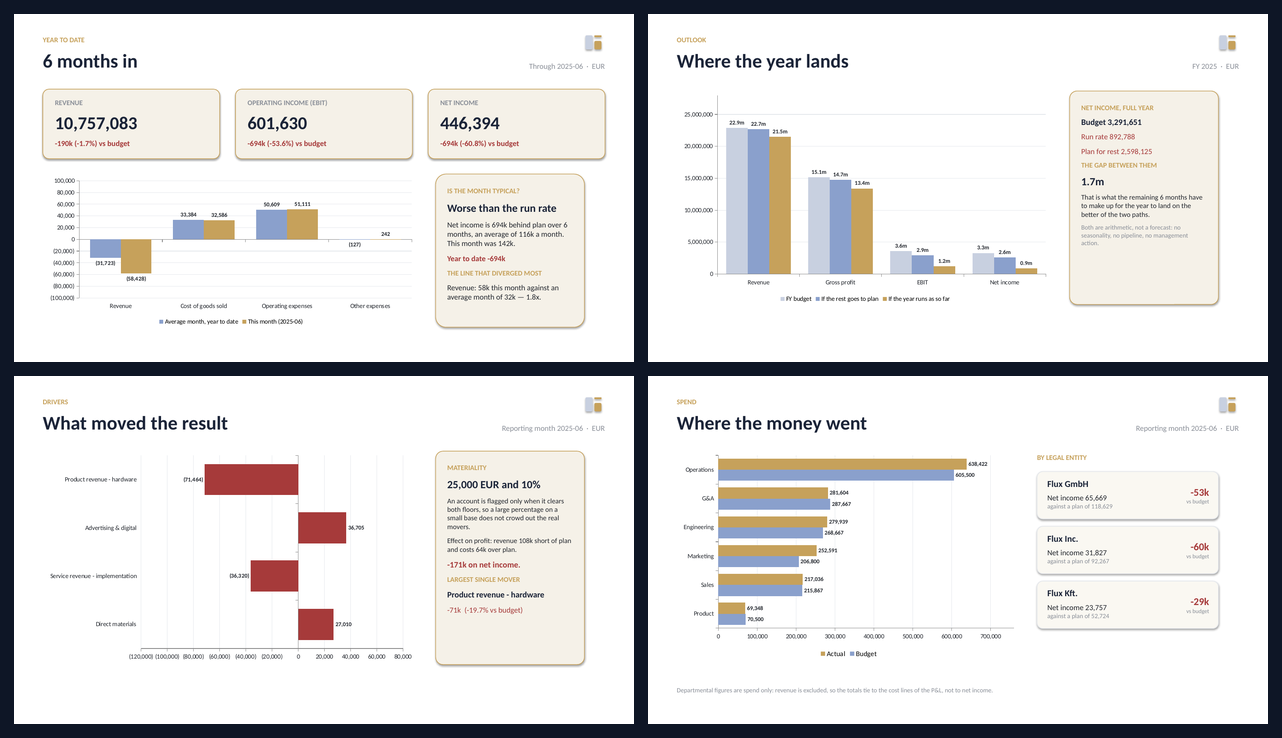
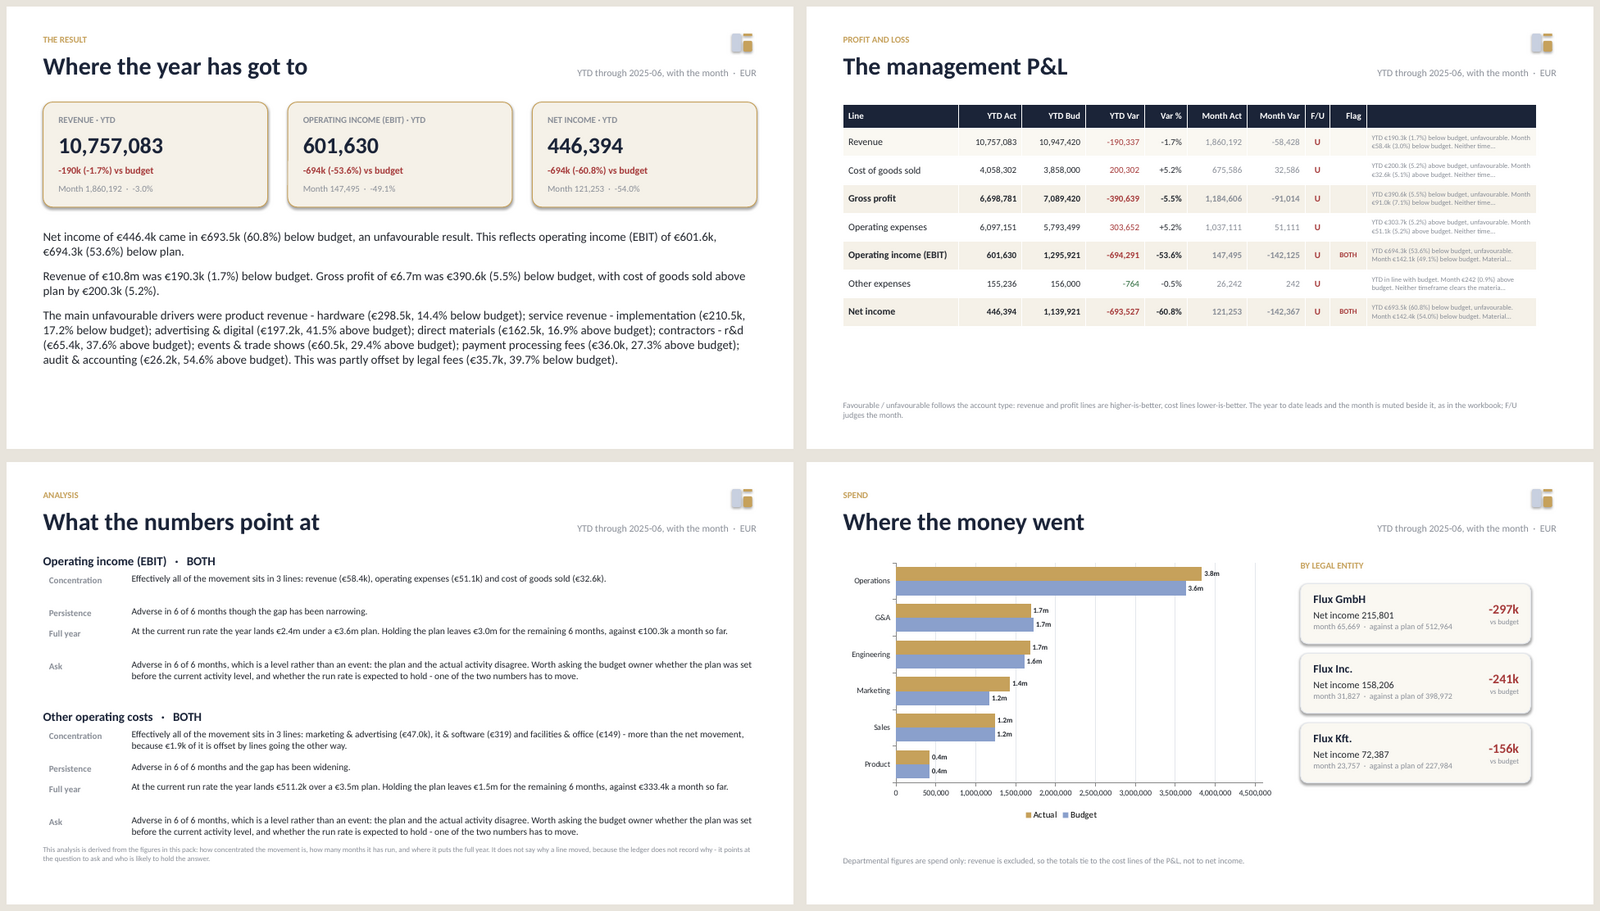
Cross-reference a repeated analysis block instead of printing it twice

Changed region(s): [[0.0, 0.0, 1.0, 1.0], [0.8736, 0.561, 0.9048, 0.5921], [0.8112, 0.5921, 0.8424, 0.6233]]

diff --git a/src/flux/reporting/demo_pack.py b/src/flux/reporting/demo_pack.py
@@ -320,7 +320,28 @@ def _write_analysis(ws, L, first_row, blocks, com_width) -> int:
     ws.row_dimensions[r].height = wrapped_height(NO_CAUSE_NOTE, com_width * 2)
     r += 2
 
+    # EBIT and net income reach the same findings - every category's movement
+    # lands on both - so printing both in full is one thought written twice.
+    # The second gets a cross-reference instead, which is shorter and truer.
+    seen = {}
     for label, flag, items in blocks:
+        key = tuple(f.text for f in items if f.heading != "Full year")
+        if key in seen:
+            ws.cell(row=r, column=1, value=f"{label}   \u00b7   {flag}" if flag else label).font = F_SUB
+            ws.cell(row=r, column=1).alignment = LEFT
+            for col in L.span():
+                ws[f"{col}{r}"].fill = FILL_IVORY
+            ws.merge_cells(start_row=r + 1, start_column=1, end_row=r + 1,
+                           end_column=L.ncols)
+            note = (f"The same picture as {seen[key]} above: the movement, its "
+                    "persistence and the question it raises are identical, "
+                    "because the lines below feed both.")
+            ws.cell(row=r + 1, column=1, value=note).font = F_BODY
+            ws.cell(row=r + 1, column=1).alignment = WRAP
+            ws.row_dimensions[r + 1].height = wrapped_height(note, com_width * 2)
+            r += 3
+            continue
+        seen[key] = label
         title = f"{label}   \u00b7   {flag}" if flag else label
         ws.cell(row=r, column=1, value=title).font = F_SUB
         ws.cell(row=r, column=1).alignment = LEFT
